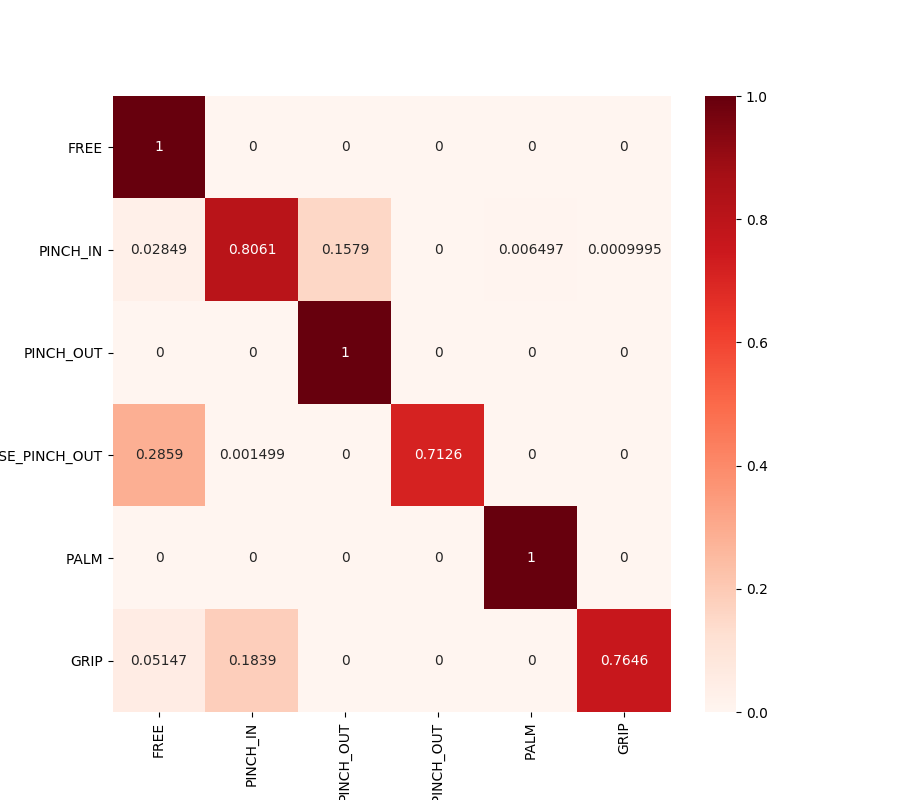
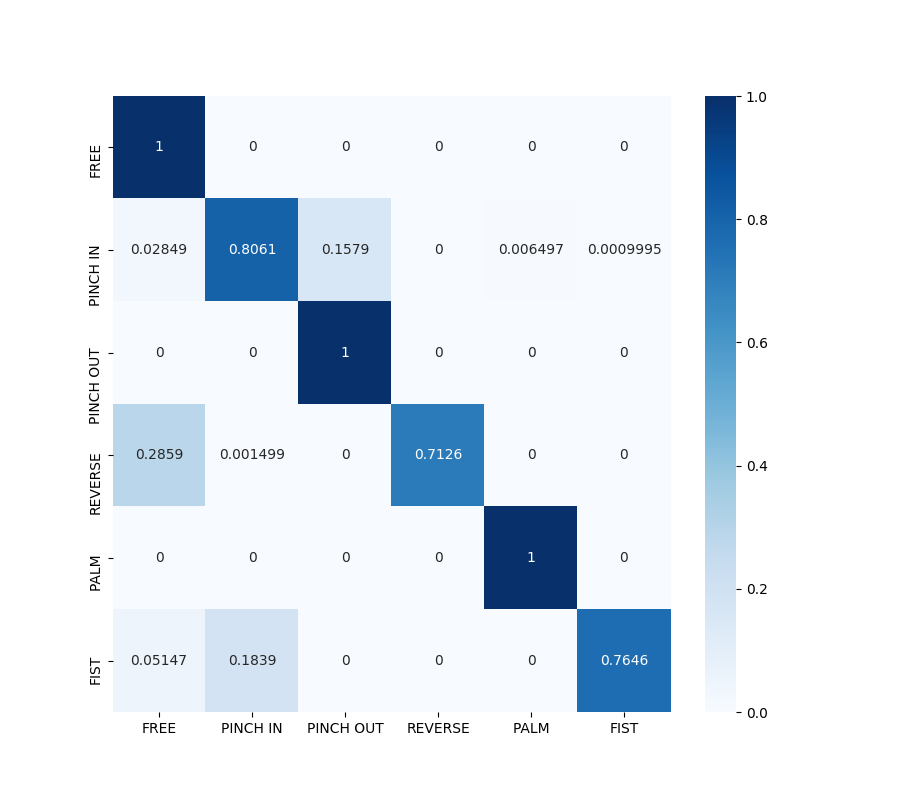
Grip to Fist

diff --git a/src/HandScensing/LearnPose.py b/src/HandScensing/LearnPose.py
@@ -27,7 +27,7 @@ read_data1 = pd.read_csv('../../res/data/1_PINCH_IN.csv', sep=',', index_col=0)
 read_data2 = pd.read_csv('../../res/data/2_PINCH_OUT.csv', sep=',', index_col=0)
 read_data3 = pd.read_csv('../../res/data/3_REVERSE.csv', sep=',', index_col=0)
 read_data4 = pd.read_csv('../../res/data/4_PALM.csv', sep=',', index_col=0)
-read_data5 = pd.read_csv('../../res/data/5_GRAB.csv', sep=',', index_col=0)
+read_data5 = pd.read_csv('../../res/data/5_FIST.csv', sep=',', index_col=0)
 
 read_data = pd.concat([read_data0, read_data1, read_data2, read_data3, read_data4, read_data5], ignore_index=True)
 data = read_data.drop("label", axis=1).values
@@ -96,7 +96,7 @@ pred = clf.predict(test_data)
 print(pred)
 print(clf.predict_proba(test_data))
 touch_true = test_label.tolist()
-labels = ["FREE", "PINCH_IN", "PINCH_OUT", "REVERSE", "PALM", "GRIP", ]
+labels = ["FREE", "PINCH IN", "PINCH OUT", "REVERSE", "PALM", "FIST"]
 
 c_matrix = confusion_matrix(touch_true, pred)
 print(c_matrix)

diff --git a/res/SSEnum.py b/res/SSEnum.py
@@ -16,7 +16,7 @@ class HandEnum(Enum):
     REVERSE = 3
     PALM = 4
     GRIP = 5
-    NAME_LIST = ["FREE", "PINCH_IN", "PINCH_OUT", "REVERSE_PINCH_OUT", "PALM", "FIST"]
+    NAME_LIST = ["FREE", "PINCH_IN", "PINCH_OUT", "REVERSE", "PALM", "FIST"]
 
 
 
